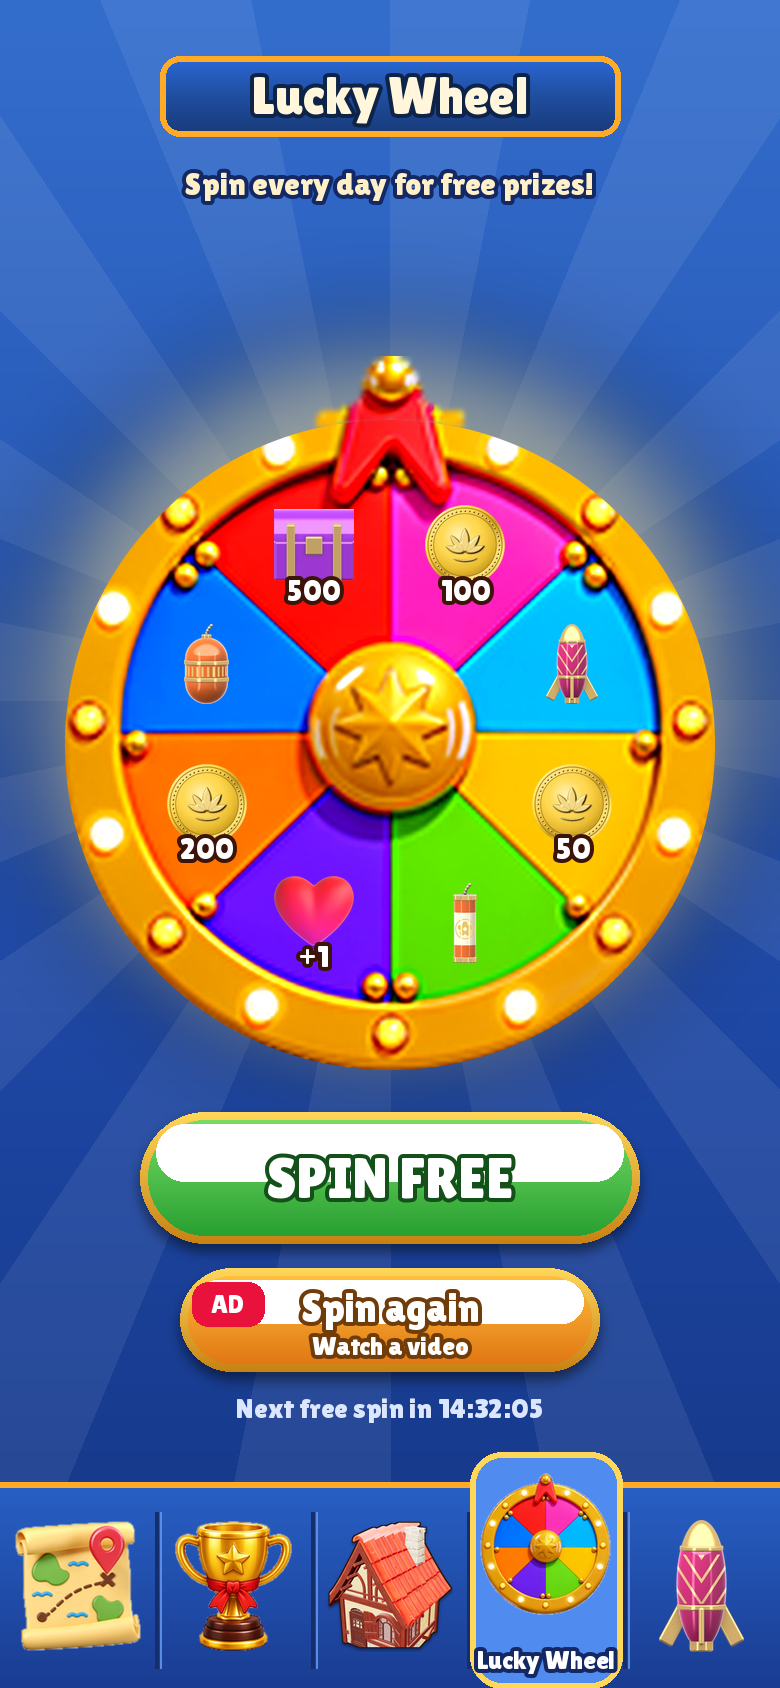
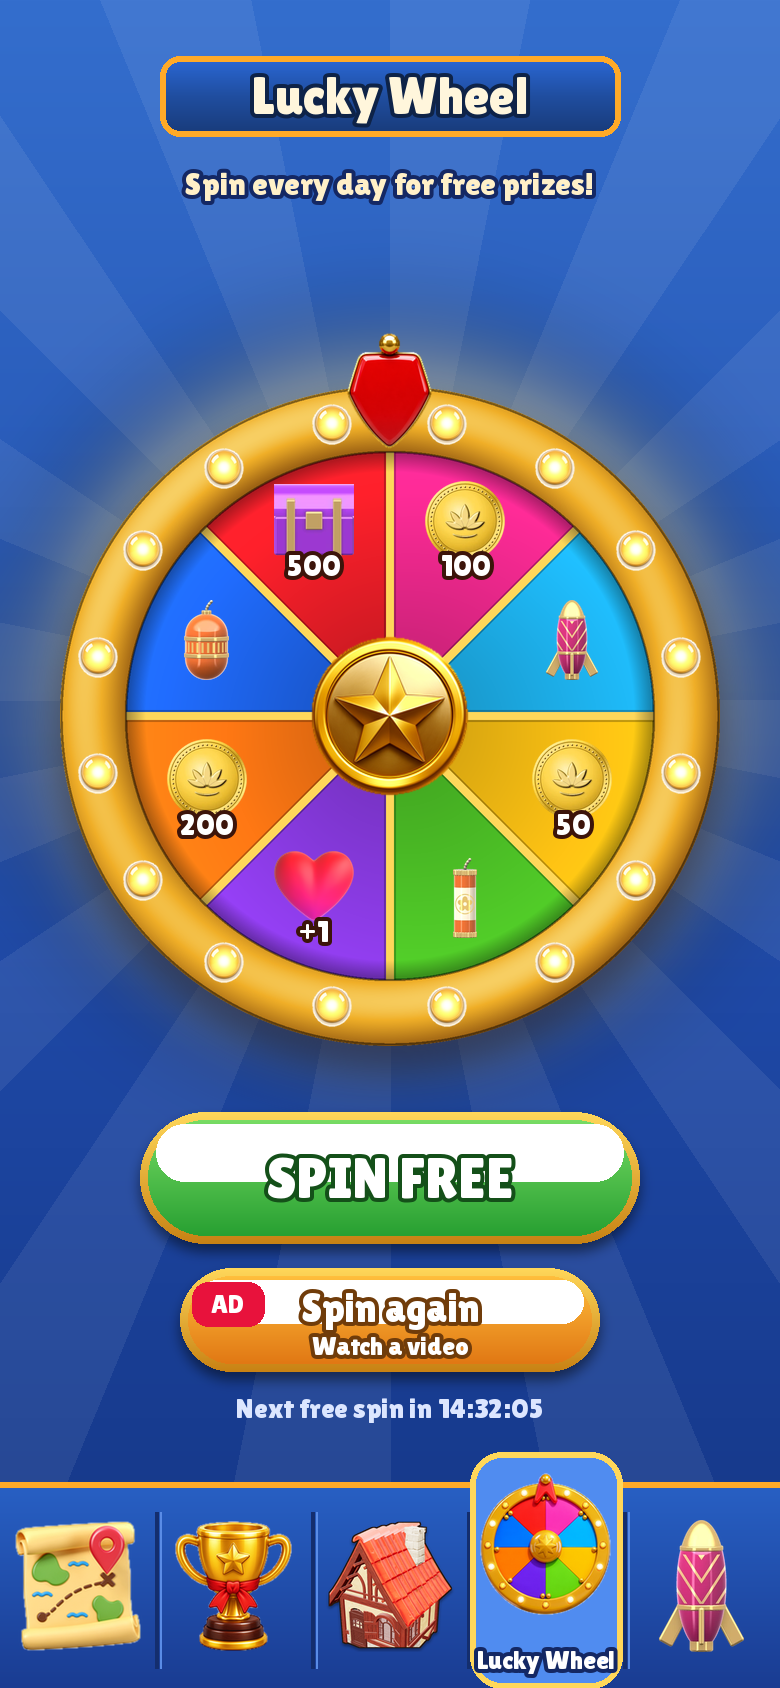
Lucky Wheel: sharp wheel built at full size (Canva hub/pointer/bulbs)
Claude-Session: https://claude.ai/code/session_01JoFRX37DvCFxf26vhiSu8C

Changed region(s): [[0.0615, 0.1848, 0.9538, 0.6469]]

diff --git a/godot/tools/pic/wheel_page_mock.py b/godot/tools/pic/wheel_page_mock.py
@@ -35,28 +35,14 @@ for k in range(16):
 im.alpha_composite(rays)
 ribbon(im,195,28,230,'Lucky Wheel',BASE)
 d=ImageDraw.Draw(im); d.text((195*S,92*S),'Spin every day for free prizes!',font=F(16),fill=(255,240,200),anchor='mm',stroke_width=2*S,stroke_fill=(20,40,100))
-# wheel: cut the Canva art's white background
-a=np.array(Image.open('/tmp/v/wheel_src.png').convert('RGB')).astype(float); mn=a.min(2); sat=a.max(2)-mn
-light=(mn>238)|((mn>150)&(sat<22)); lab,n=ndimage.label(light)
-edge=set(np.unique(np.concatenate([lab[0],lab[-1],lab[:,0],lab[:,-1]])))-{0}
-bg=np.isin(lab,list(edge)); fg=ndimage.binary_erosion(ndimage.binary_fill_holes(~bg),iterations=2)
-# edge pixels take the colour of the nearest solid inside pixel (no white fringe)
-_,ix=ndimage.distance_transform_edt(~ndimage.binary_erosion(fg,iterations=1),return_indices=True); a=a[ix[0],ix[1]]
-# smooth round edge: fit the rim circle, draw it clean at full size; keep the pointer from the cut
-ys,xs=np.nonzero(fg); L,R,B=xs.min(),xs.max(),ys.max(); rr=(R-L+1)/2; ccx=(L+R+1)/2; ccy=B+1-rr
-yy,xx=np.mgrid[0:fg.shape[0],0:fg.shape[1]]; outside=((xx+.5-ccx)**2+(yy+.5-ccy)**2)>(rr-1.5)**2
-ptr=fg&outside&(yy<ccy-rr*0.6)&(np.abs(xx+.5-ccx)<rr*0.22)
-x0,y0=L,ys.min(); k=330*S/(R-L+1); WS=330*S; HS=int(round((B+1-y0)*k))
-rgb=Image.fromarray(a[y0:B+1,L:R+1].astype(np.uint8),'RGB').resize((WS,HS),Image.LANCZOS)
-rgb=ImageEnhance.Contrast(ImageEnhance.Color(rgb).enhance(1.12)).enhance(1.08).filter(ImageFilter.UnsharpMask(3*S,90,2))
-SS=4; m=Image.new('L',(WS*SS,HS*SS),0); c2x=(ccx-L)*k*SS; c2y=(ccy-y0)*k*SS; r2=(rr-1.2)*k*SS
-ImageDraw.Draw(m).ellipse([c2x-r2,c2y-r2,c2x+r2,c2y+r2],fill=255); m=m.resize((WS,HS),Image.LANCZOS)
-pm=Image.fromarray((ndimage.gaussian_filter(ptr[y0:B+1,L:R+1].astype(float),0.7)*255).astype(np.uint8)).resize((WS,HS),Image.LANCZOS)
-wh=rgb.convert('RGBA'); wh.putalpha(ImageChops.lighter(m,pm))
+import sys; sys.path.insert(0,'tools/pic'); import wheel_build as WB
+WS=330*S; wh=WB.wheel(WS)
 glow=Image.new('RGBA',(W,H),(0,0,0,0)); ImageDraw.Draw(glow).ellipse([cx-185*S,cy-185*S,cx+185*S,cy+185*S],fill=(255,220,120,120)); im.alpha_composite(glow.filter(ImageFilter.GaussianBlur(24*S)))
-wx,wy=int(cx-WS/2),int(cy-wh.height/2+8*S); im.alpha_composite(wh,(wx,wy))
+wx,wy=int(cx-WS/2),int(cy-WS/2+8*S)
+ds=Image.new('RGBA',(W,H),(0,0,0,0)); ImageDraw.Draw(ds).ellipse([wx,wy+10*S,wx+WS,wy+WS+10*S],fill=(0,0,30,110)); im.alpha_composite(ds.filter(ImageFilter.GaussianBlur(8*S)))
+im.alpha_composite(wh,(wx,wy))
 # prizes on the 8 segments (centre of the wheel = image centre slightly below the pointer)
-wcx,wcy=cx,wy+wh.height*0.535
+wcx,wcy=cx,wy+WS/2
 prizes=[('art/ui-coin.webp','100'),('art/crk/b6.webp',''),('art/ui-coin.webp','50'),('art/crk/b17.webp',''),('art/web/fe-heart.png','+1'),('art/ui-coin.webp','200'),('art/crk/b10.webp',''),('art/web/ui-chest.webp','500')]
 for i,(p,lab_) in enumerate(prizes):
     ang=-math.pi/2+math.pi/8+i*math.pi/4
@@ -64,6 +50,8 @@ for i,(p,lab_) in enumerate(prizes):
     ic=icon(p,int(40*S)); sh=Image.new('RGBA',(W,H),(0,0,0,0))
     im.alpha_composite(ic,(int(px-ic.width/2),int(py-ic.height/2-(6*S if lab_ else 0))))
     if lab_: ImageDraw.Draw(im).text((px,py+16*S),lab_,font=F(15),fill='white',anchor='mm',stroke_width=2*S,stroke_fill=(60,20,10))
+hb=WB.hub(WS); im.alpha_composite(hb,(int(wcx-hb.width/2),int(wcy-hb.height/2)))
+pt=WB.pointer(WS); im.alpha_composite(pt,(int(wcx-pt.width/2),int(wy-pt.height*0.45)))
 # buttons and timer
 btn(im,[70,556,320,622],(120,220,100),(40,160,50),'SPIN FREE',28)
 btn(im,[90,634,300,686],(255,190,60),(225,120,20),'Spin again',20,'Watch a video')

diff --git a/godot/tools/pic/wheel_build.py b/godot/tools/pic/wheel_build.py
@@ -1,0 +1,48 @@
+# builds a sharp wheel at any size: rim/segments drawn at full size, hub/pointer/bulbs from Canva pieces
+import math, numpy as np
+from PIL import Image, ImageDraw, ImageFilter
+from scipy import ndimage
+def cut(path):
+    a=np.array(Image.open(path).convert('RGB')).astype(float); mn=a.min(2); sat=a.max(2)-mn
+    light=(mn>232)|((mn>150)&(sat<22)); lab,n=ndimage.label(light)
+    edge=set(np.unique(np.concatenate([lab[0],lab[-1],lab[:,0],lab[:,-1]])))-{0}
+    fg=ndimage.binary_fill_holes(~np.isin(lab,list(edge))); fg=ndimage.binary_erosion(fg,iterations=1)
+    _,ix=ndimage.distance_transform_edt(~ndimage.binary_erosion(fg,iterations=1),return_indices=True); a=a[ix[0],ix[1]]
+    al=ndimage.gaussian_filter(fg.astype(float),0.6)
+    im=Image.fromarray(np.dstack([a,al*255]).astype(np.uint8),'RGBA'); return im.crop(im.getbbox())
+def fit(im,w): return im.resize((int(w),int(im.height*w/im.width)),Image.LANCZOS)
+COLS=[(236,40,140),(30,180,240),(255,196,20),(80,200,40),(140,60,230),(255,120,20),(30,100,235),(235,30,40)]
+def wheel(WS,parts='art/wheel'):
+    K=2; N=WS*K; R=N/2; yy,xx=np.mgrid[0:N,0:N]+0.5; dx=xx-R; dy=yy-R; r=np.hypot(dx,dy)
+    ang=(np.degrees(np.arctan2(dy,dx))+90)%360; seg=(ang//45).astype(int)%8
+    Rin=R*0.80; img=np.zeros((N,N,4),float)
+    # segments with soft shading (brighter toward the rim, light from top-left)
+    col=np.array(COLS,float)[seg]; t=np.clip(r/Rin,0,1)
+    k=0.78+0.32*t-0.10*((dx+dy)/(2*R)); col=np.clip(col*k[...,None],0,255)
+    img[...,:3]=col; img[...,3]=(r<Rin+2)*255
+    # gold divider lines
+    da=np.minimum(ang%45,45-ang%45)*np.pi/180*r; ln=(da<N*0.006)&(r<Rin)
+    img[ln,:3]=(255,215,90); edgeln=(da>=N*0.006)&(da<N*0.009)&(r<Rin); img[edgeln,:3]=img[edgeln,:3]*0.75
+    # inner shadow next to the rim
+    sh=np.clip(1-(Rin-r)/(N*0.03),0,1)*(r<Rin); img[...,:3]*= (1-0.35*sh)[...,None]
+    # gold rim: rounded bevel lit from top-left
+    rim=(r>=Rin)&(r<=R); tt=np.clip((r-Rin)/(R-Rin),0,1); h=np.sin(np.pi*tt)
+    nx=np.cos(np.pi*tt)*dx/np.maximum(r,1); ny=np.cos(np.pi*tt)*dy/np.maximum(r,1)
+    lit=np.clip(0.55+0.55*(-nx*0.6-ny*0.8)*-1*-1,0,1)
+    lit=np.clip(0.5+0.5*(-(nx*-0.6+ny*-0.8)),0,1)*0.6+0.4*h
+    g0=np.array([150,92,18.]); g1=np.array([240,175,40.]); g2=np.array([255,240,160.])
+    gc=np.where(lit[...,None]<0.6, g0+(g1-g0)*(lit/0.6)[...,None], g1+(g2-g1)*((lit-0.6)/0.4)[...,None])
+    spec=np.clip((lit-0.85)/0.15,0,1)**2; gc=gc+(255-gc)*spec[...,None]*0.6
+    img[rim,:3]=gc[rim]; img[rim,3]=255
+    # thin dark outline on both edges of the rim
+    for rr_ in (Rin,R-1.5*K):
+        o=np.abs(r-rr_)<1.2*K; img[o,:3]=img[o,:3]*0.55
+    a=np.clip(R-r+0.5,0,1); img[...,3]=np.minimum(img[...,3],a*255)
+    W_=Image.fromarray(img.astype(np.uint8),'RGBA').resize((WS,WS),Image.LANCZOS)
+    # bulbs on the rim
+    b=fit(cut(parts+'/bulb.png'),WS*0.062); rb=WS/2*0.90
+    for i in range(16):
+        q=math.radians(i*22.5-90+11.25); W_.alpha_composite(b,(int(WS/2+math.cos(q)*rb-b.width/2),int(WS/2+math.sin(q)*rb-b.height/2)))
+    return W_
+def hub(WS,parts='art/wheel'): return fit(cut(parts+'/hub.png'),WS*0.24)
+def pointer(WS,parts='art/wheel'): return fit(cut(parts+'/ptr.png'),WS*0.13)
